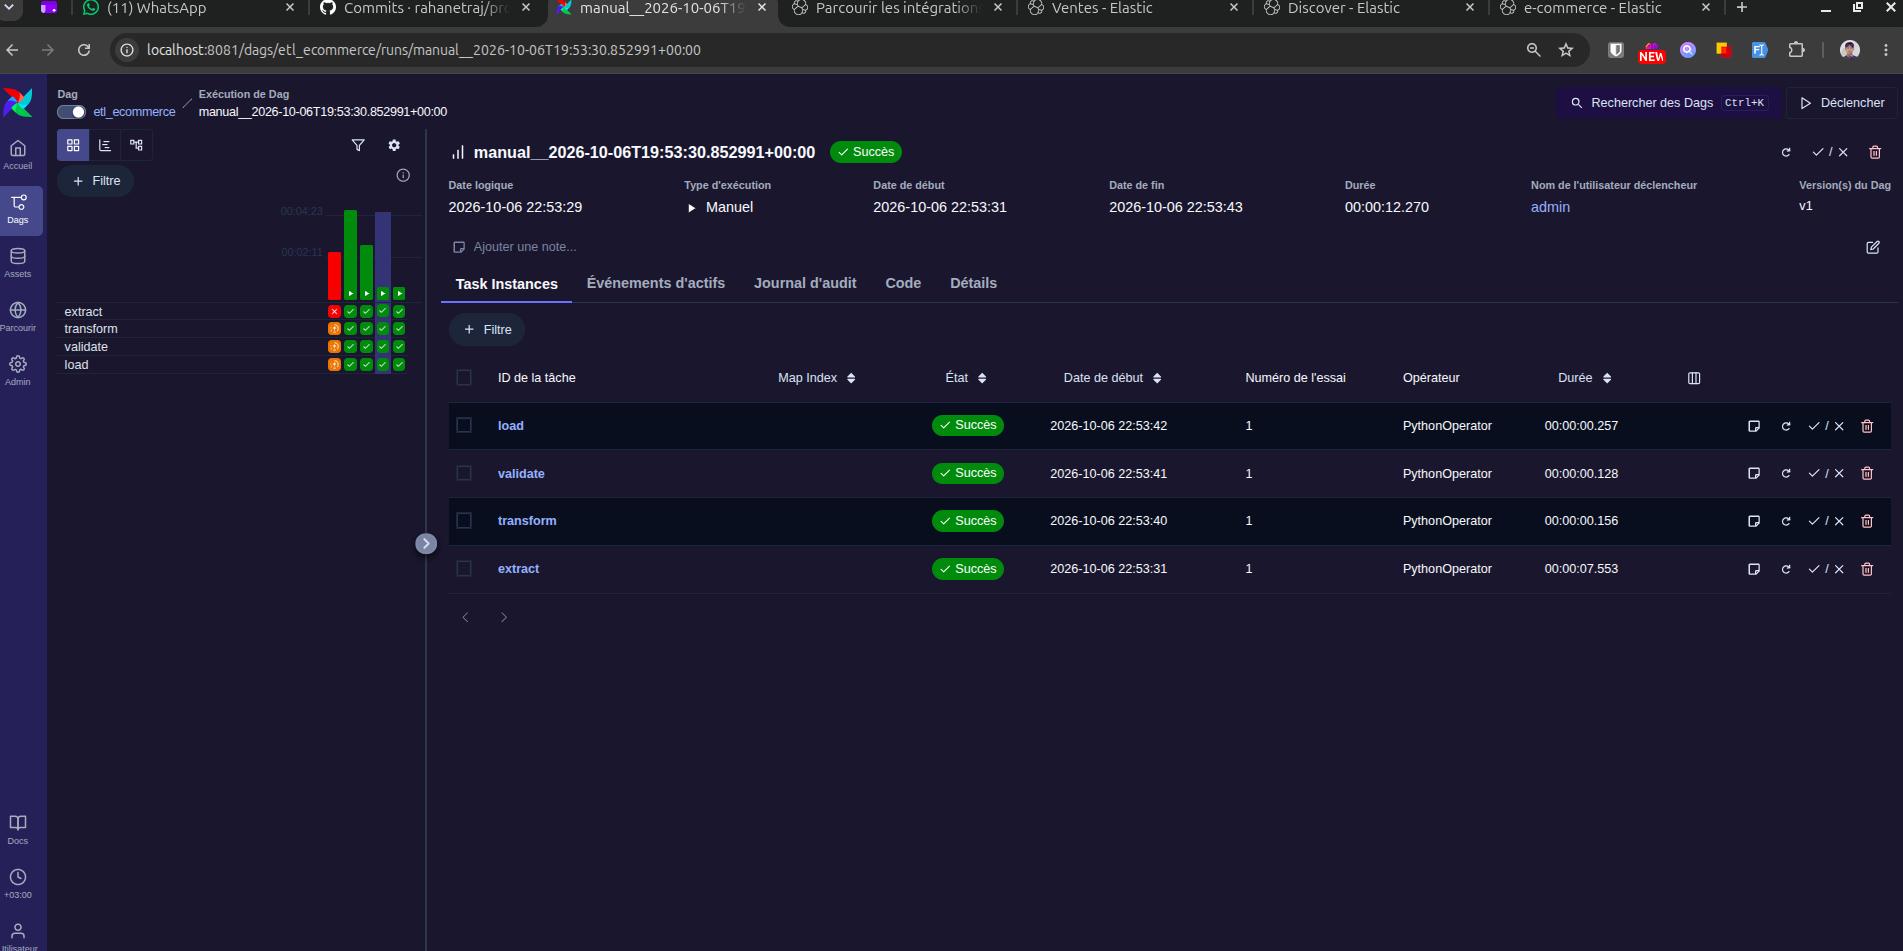
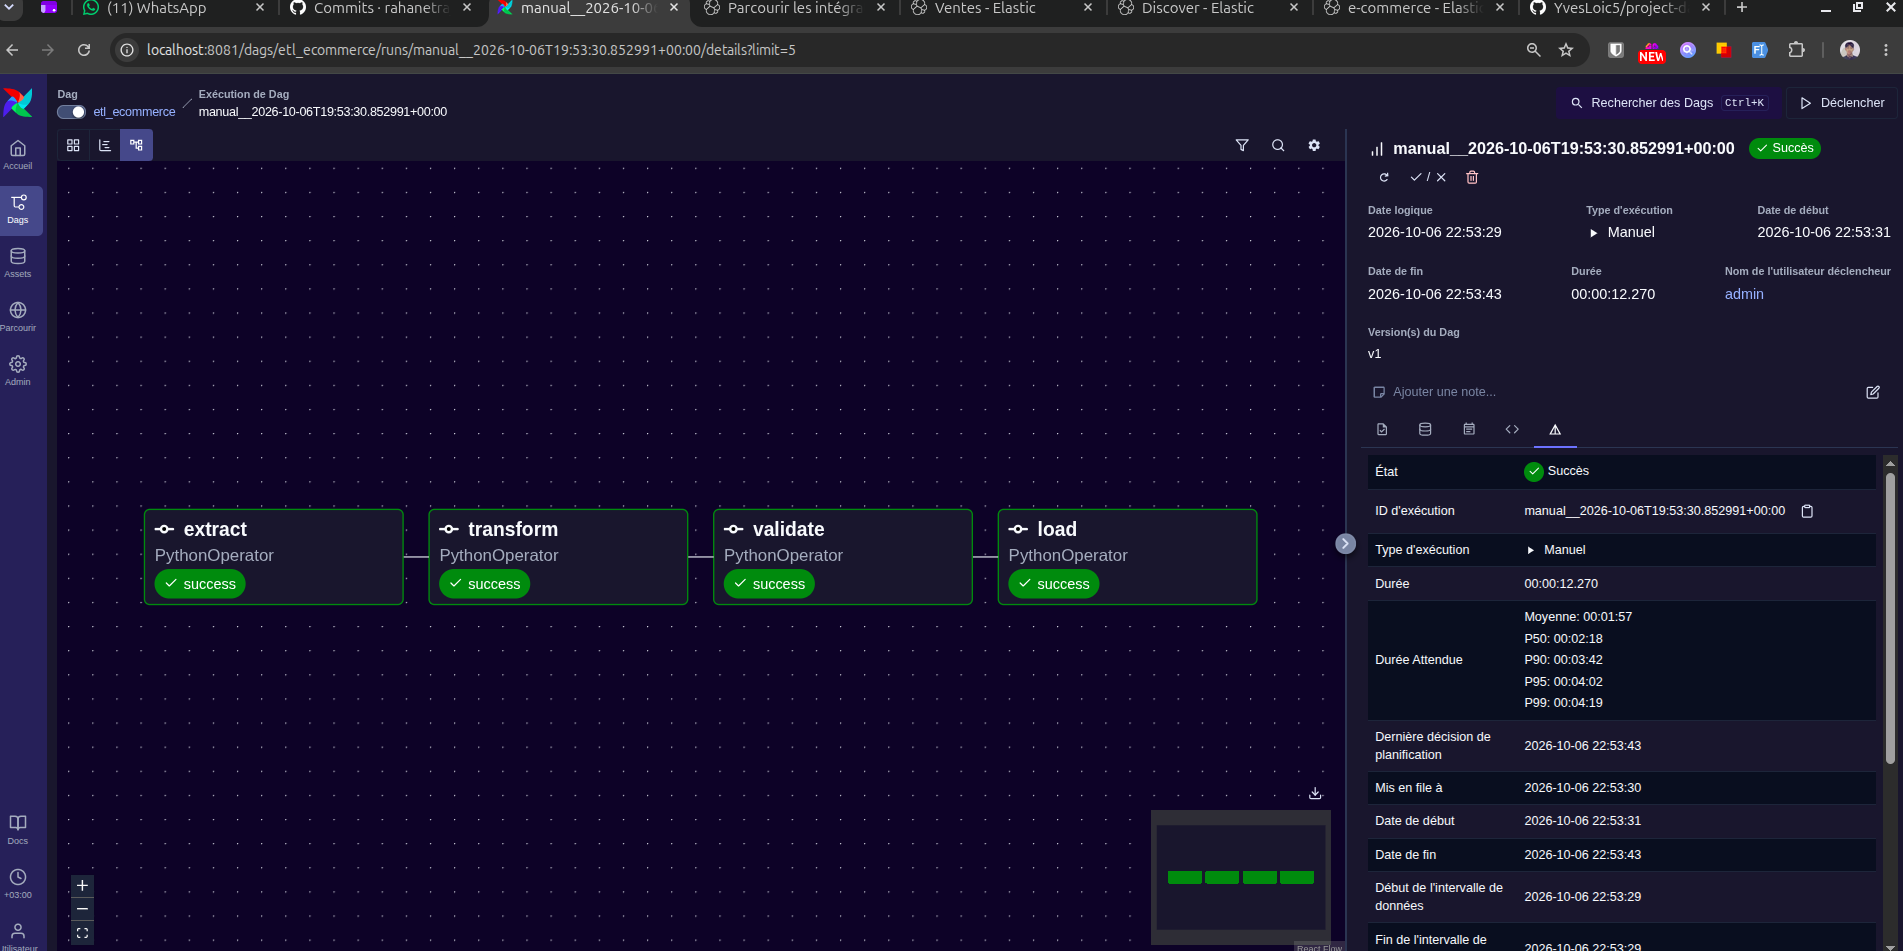
Ajoute les captures Airflow en cours et en succès dans le README

diff --git a/README.md b/README.md
@@ -1,0 +1,243 @@
+# Pipeline ETL e-commerce : Airflow, Elasticsearch et Kibana
+
+Projet final de Data Engineering. Il collecte des données de produits et de commandes depuis une API publique, les transforme, contrôle leur qualité, les charge dans Elasticsearch et les analyse dans un tableau de bord Kibana.
+
+## Sommaire
+
+- [Contexte](#contexte)
+- [Architecture](#architecture)
+- [Sources de données](#sources-de-données)
+- [Transformations](#transformations)
+- [Contrôles qualité](#contrôles-qualité)
+- [Mapping Elasticsearch](#mapping-elasticsearch)
+- [Analyses](#analyses)
+- [Tableau de bord Kibana](#tableau-de-bord-kibana)
+- [Lancer le projet](#lancer-le-projet)
+- [Structure du dépôt](#structure-du-dépôt)
+- [Difficultés rencontrées](#difficultés-rencontrées)
+- [Démonstration](#démonstration)
+
+## Contexte
+
+Une boutique en ligne veut suivre ses ventes, ses stocks et la satisfaction de ses clients. Les données existent, mais elles sont brutes : des champs manquent, des dates ont des formats différents, et les lignes de commande ne sont pas reliées aux produits.
+
+Ce projet montre le parcours complet d'une donnée :
+
+**Collecter → Transformer → Contrôler → Charger → Analyser → Visualiser**
+
+## Architecture
+
+```
+API DummyJSON → Airflow (Extract → Transform → Validate → Load) → Elasticsearch → Kibana
+```
+
+Airflow orchestre quatre tâches enchaînées. Elasticsearch stocke les données, Kibana les affiche. Tout tourne en local avec Docker Compose.
+
+| Service       | Rôle                                  | Adresse                |
+|---------------|---------------------------------------|------------------------|
+| Airflow       | Orchestration du DAG `etl_ecommerce`  | http://localhost:8081  |
+| Elasticsearch | Stockage et recherche                 | http://localhost:9200  |
+| Kibana        | Visualisation                         | http://localhost:5601  |
+| PostgreSQL    | Base interne d'Airflow                | (interne)              |
+
+## Sources de données
+
+Source : **[DummyJSON](https://dummyjson.com)**, une API publique sans clé d'accès.
+
+- `/products` : 194 produits avec prix, remise, stock, catégorie, marque, note et avis clients.
+- `/carts` : 208 paniers, soit 800 lignes de vente au total.
+
+Les données brutes sont téléchargées à chaque exécution dans `data/raw/`. Ce dossier et `data/processed/` ne sont pas versionnés : le pipeline les recrée.
+
+## Transformations
+
+Le script `scripts/transform.py` applique les transformations suivantes :
+
+1. **Suppression des doublons** sur `id` (produits et paniers).
+2. **Gestion des valeurs manquantes** : la marque absente d'un produit est remplacée par « Inconnue » (92 produits concernés).
+3. **Normalisation des dates** : les dates des avis, au format ISO avec millisecondes, sont converties en `AAAA-MM-JJ`.
+4. **Conversion de types et arrondis** : prix et notes en nombres décimaux à deux chiffres après la virgule.
+5. **Création de nouvelles colonnes** :
+   - `final_price` : prix après remise ;
+   - `stock_value` : valeur du stock (prix après remise × stock) ;
+   - `average_review_rating` : note moyenne des avis d'un produit ;
+   - `line_total` : montant d'une ligne de vente (prix unitaire × quantité).
+6. **Jointure** : chaque ligne de panier est reliée à son produit pour récupérer la catégorie, la marque et le prix.
+
+Les produits sont enregistrés dans `data/processed/products.json`, les ventes dans `data/processed/sales.json`.
+
+## Contrôles qualité
+
+Le script `scripts/validate.py` effectue 12 contrôles. Si l'un d'eux échoue, la tâche échoue et Airflow la relance.
+
+**Produits**
+- le catalogue n'est pas vide ;
+- les champs obligatoires sont renseignés ;
+- `product_id` est unique ;
+- les prix sont positifs ;
+- les stocks sont positifs ;
+- les remises sont comprises entre 0 et 100 % ;
+- les dates d'avis ne sont pas dans le futur.
+
+**Ventes**
+- les ventes ne sont pas vides ;
+- chaque vente correspond à un produit du catalogue ;
+- `line_id` est unique ;
+- les quantités sont strictement positives ;
+- le total de chaque ligne égale prix unitaire × quantité.
+
+## Mapping Elasticsearch
+
+Le mapping est défini dans `elasticsearch/mapping.json`. Chaque champ a un type explicite pour que Kibana l'interprète correctement :
+
+- `price`, `final_price`, `line_total` : `float` ;
+- `stock`, `quantity`, `review_count` : `integer` ;
+- `category`, `brand`, `sku` : `keyword`, pour les agrégations et les filtres exacts ;
+- `title` : `text` avec un sous-champ `title.raw` en `keyword`, pour la recherche plein texte et les regroupements ;
+- `reviews.date` : `date` au format `yyyy-MM-dd`.
+
+Deux index sont créés :
+- `products` : 194 documents, un par produit ;
+- `sales` : 800 documents, un par ligne de vente.
+
+Le chargement utilise l'identifiant du document comme `_id` (`product_id` pour les produits, `line_id` pour les ventes). Relancer le pipeline met donc à jour les documents au lieu de les dupliquer.
+
+## Analyses
+
+Les requêtes sont dans `elasticsearch/queries.json`. Chacune répond à une question concrète :
+
+| Requête | Question |
+|---------|----------|
+| `chiffre_affaires_par_categorie` | Quelles catégories rapportent le plus ? |
+| `top_produits_vendus` | Quels sont les 10 produits vendus en plus grande quantité ? |
+| `prix_moyen_ligne_par_marque` | Quel est le montant moyen d'une ligne de vente selon la marque ? |
+| `note_moyenne_par_categorie` | Quelles catégories sont les mieux notées ? |
+| `produits_stock_faible` | Quels produits risquent la rupture (stock inférieur à 10) ? |
+| `valeur_stock_par_categorie` | Quelle est la valeur immobilisée en stock par catégorie ? |
+
+Quelques résultats observés lors de l'exécution :
+- la catégorie `vehicle` concentre le plus gros chiffre d'affaires, avec environ 1,68 M€ ;
+- « Decoration Swing » est le produit le plus vendu, avec environ 2 150 unités ;
+- plusieurs produits sont en rupture de stock (stock à 0).
+
+## Tableau de bord Kibana
+
+Le tableau de bord « e-commerce » contient quatre visualisations :
+
+1. **CA par catégorie** : histogramme de la somme de `line_total` par catégorie (top 10).
+2. **Top produits vendus** : somme des quantités par produit (top 10).
+3. **Produits en stock faible** : tableau des produits dont le stock est inférieur à 10, trié par stock croissant.
+4. **Note moyenne par catégorie** : moyenne des notes par catégorie (top 30).
+
+Deux vues de données (`sales` et `products`) alimentent ces visualisations. Le fichier `kibana/dashboard.ndjson` contient l'export complet.
+
+![Tableau de bord Kibana](docs/screenshots/kibana-dashboard.png)
+
+## Lancer le projet
+
+### Prérequis
+
+- Docker et Docker Compose ;
+- environ 4 Go de mémoire disponible pour les conteneurs ;
+- accès à Internet pour récupérer les images et les données.
+
+### Étapes
+
+1. Cloner le dépôt :
+   ```bash
+   git clone git@github.com:rahanetraj/projet-data-engineering-ecommerce.git
+   cd projet-data-engineering-ecommerce
+   ```
+
+2. Lancer la stack :
+   ```bash
+   docker compose up -d
+   docker compose ps
+   ```
+   Attendre que les services soient `healthy`. Le premier démarrage peut prendre plusieurs minutes, le temps de télécharger les images.
+
+3. Récupérer le mot de passe admin d'Airflow. Il est généré à chaque création du conteneur :
+   ```bash
+   docker compose logs airflow | grep -i password
+   ```
+
+4. Ouvrir Airflow sur http://localhost:8081, se connecter avec `admin` et le mot de passe trouvé, activer le DAG `etl_ecommerce` puis cliquer sur **Déclencher**. Les quatre tâches (`extract`, `transform`, `validate`, `load`) doivent passer au vert.
+
+5. Vérifier les données dans Elasticsearch :
+   ```bash
+   curl "http://localhost:9200/_cat/indices?v"
+   curl "http://localhost:9200/sales/_count"    # 800
+   curl "http://localhost:9200/products/_count" # 194
+   ```
+
+6. Importer le tableau de bord dans Kibana (http://localhost:5601) : menu **Gestion de la Suite** → **Objets enregistrés** → **Importer**, puis sélectionner `kibana/dashboard.ndjson`.
+
+7. Arrêter la stack :
+   ```bash
+   docker compose down
+   ```
+   Ajouter `-v` supprime aussi les données Elasticsearch et Postgres.
+
+### Exécution hors Docker
+
+Les scripts peuvent aussi être lancés seuls, avec Python 3.12 et les dépendances de `requirements.txt` :
+
+```bash
+pip install -r requirements.txt
+python3 scripts/extract.py
+python3 scripts/transform.py
+python3 scripts/validate.py
+```
+
+Le chargement vers Elasticsearch (`scripts/load.py`) attend une instance accessible sur `http://localhost:9200`.
+
+## Structure du dépôt
+
+```
+projet-data-engineering/
+├── dags/
+│   └── etl_pipeline.py        # DAG Airflow : extract → transform → validate → load
+├── scripts/
+│   ├── extract.py             # Récupération paginée depuis DummyJSON
+│   ├── transform.py           # Nettoyage, enrichissement et jointure
+│   ├── validate.py            # 12 contrôles qualité
+│   └── load.py                # Création des index et chargement idempotent
+├── elasticsearch/
+│   ├── mapping.json           # Mapping des index products et sales
+│   └── queries.json           # Six requêtes d'analyse
+├── kibana/
+│   └── dashboard.ndjson       # Export du tableau de bord et des visualisations
+├── data/                      # Généré par le pipeline (non versionné)
+├── docs/screenshots/          # Captures d'écran
+├── docker-compose.yml         # Airflow, Elasticsearch, Kibana, PostgreSQL
+├── requirements.txt
+└── README.md
+```
+
+## Configuration du DAG
+
+- **Planification** : quotidienne (`@daily`), sans rattrapage des dates passées (`catchup=False`).
+- **Relances** : 2 tentatives par tâche, espacées d'une minute.
+- **XCom** : la tâche `validate` transmet ses compteurs à la tâche `load`.
+- **Connexion Airflow** : `elasticsearch_default`, créée automatiquement à partir de la variable d'environnement `AIRFLOW_CONN_ELASTICSEARCH_DEFAULT` dans `docker-compose.yml`.
+
+Pendant l'exécution, la tâche `extract` est en cours :
+
+![DAG Airflow en cours d'exécution](docs/screenshots/airflow-dag-running.png)
+
+Une fois le run terminé, les quatre tâches sont en succès :
+
+![DAG Airflow en succès](docs/screenshots/airflow-dag-success.png)
+
+## Difficultés rencontrées
+
+- **Elasticsearch bloqué par le disque** : au-delà de 90 % d'occupation, Elasticsearch n'alloue plus ses shards. La règle de seuil disque est désactivée dans le compose, ce qui convient à un usage local uniquement.
+- **Doublons silencieux** : deux lignes d'un même panier pouvaient avoir le même identifiant (`cart_id-product_id`), et Elasticsearch écrasait une des deux. Les ventes passent maintenant par un `line_id` unique, et un contrôle vérifie cette unicité.
+- **Permissions** : le conteneur Airflow ne pouvait pas écrire dans `data/`, créé par l'utilisateur de la machine hôte.
+- **Conflit de dépendances** : figer `requests` à une version trop ancienne cassait d'autres paquets d'Airflow. La contrainte a été retirée, car `requests` est déjà fourni par l'image.
+
+## Démonstration
+
+Vidéo de démonstration : *à ajouter*.
+
+Elle montre le déclenchement du DAG, les données dans Elasticsearch et le tableau de bord Kibana.
